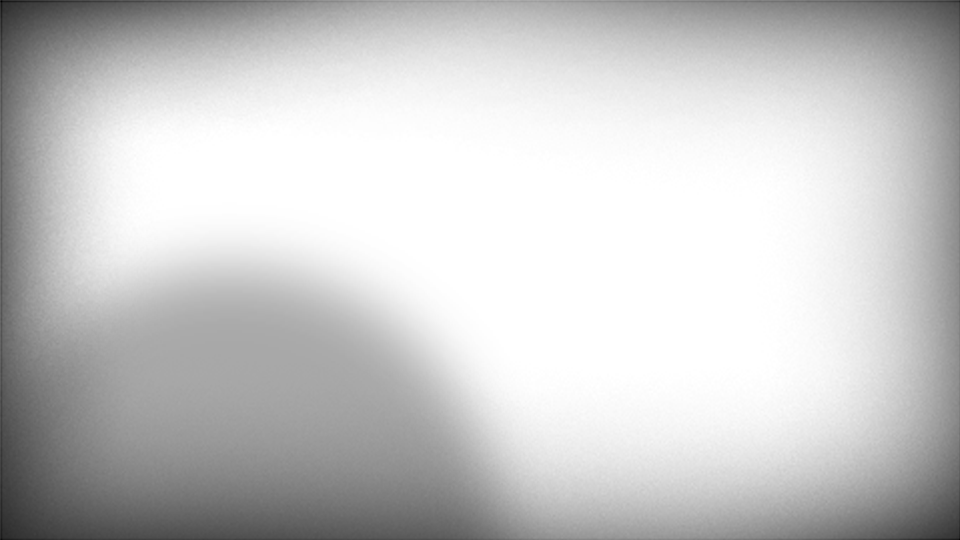
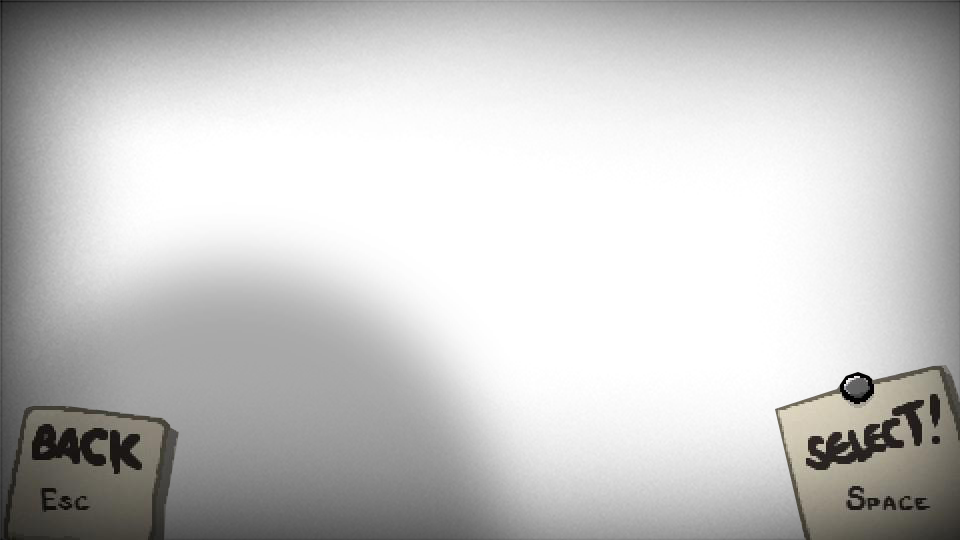
Main menu rework and working resolution changing

Changed region(s): [[0.8125, 0.6815, 1.0, 1.0], [0.0, 0.7407, 0.1875, 1.0]]

diff --git a/src/game.py b/src/game.py
@@ -14,7 +14,8 @@ class Game:
         #self.screen = pygame.display.set_mode((0, 0))
         #window_size = (pygame.display.Info().current_w, pygame.display.Info().current_h)
 
-        window_size = (1920, 1080)
+        #window_size = (1920, 1080)
+        window_size = (1280, 720)
         self.screen = pygame.display.set_mode((window_size[0], window_size[1]))
         
 
@@ -30,18 +31,20 @@ class Game:
 
         self.image_loader = ImageLoader()
           
-        self.intro_background = pygame.image.load("resources/menu/introbackground.png")
-        self.intro_background = pygame.transform.smoothscale(self.intro_background, self.screen.get_size())
-        self.menu_background = pygame.image.load("resources/menu/menuoverlay.png")
-        self.menu_background = pygame.transform.smoothscale(self.menu_background, self.screen.get_size())
-        self.pause_card = pygame.image.load("resources/menu/pausecard2.png")
-        self.pause_card = pygame.transform.smoothscale(self.pause_card, (self.pause_card.get_height() * self.settings.SCALE, self.pause_card.get_width() * self.settings.SCALE))
-        self.arrow = pygame.image.load("resources/menu/arrow2.png")
-        self.arrow = pygame.transform.smoothscale(self.arrow, (self.arrow.get_width() * self.settings.SCALE, self.arrow.get_height()* self.settings.SCALE))
-        self.main_title = pygame.image.load("resources/menu/maintitle.png")
-        title_width = self.settings.WIN_WIDTH // 2
-        title_height = self.main_title.get_height() * (title_width // self.main_title.get_width())
-        self.main_title = pygame.transform.scale(self.main_title, (title_width, title_height))
+        self.const_intro_background = pygame.image.load("resources/menu/introbackground.png")
+        self.intro_background = pygame.transform.smoothscale(self.const_intro_background, self.screen.get_size())
+        self.const_menu_card = pygame.image.load("resources/menu/menucard.png")
+        self.menu_card = pygame.transform.smoothscale(self.const_menu_card, self.screen.get_size())
+        self.const_settings_card = pygame.image.load("resources/menu/settingscard.png")
+        self.settings_card = pygame.transform.smoothscale(self.const_settings_card, self.screen.get_size())
+        self.const_menu_background = pygame.image.load("resources/menu/menuoverlay.png")
+        self.menu_background = pygame.transform.smoothscale(self.const_menu_background, self.screen.get_size())
+        self.const_pause_card = pygame.image.load("resources/menu/pausecard2.png")
+        self.pause_card = pygame.transform.smoothscale(self.const_pause_card, (self.const_pause_card.get_height() * self.settings.SCALE, self.const_pause_card.get_width() * self.settings.SCALE))
+        self.const_arrow = pygame.image.load("resources/menu/arrow2.png")
+        self.arrow = pygame.transform.smoothscale(self.const_arrow, (self.const_arrow.get_width() * 0.7 * self.settings.SCALE, self.const_arrow.get_height() * 0.7 * self.settings.SCALE))
+        self.const_main_title = pygame.image.load("resources/menu/maintitle.png")
+        self.main_title = pygame.transform.scale(self.const_main_title, (self.const_main_title.get_width() * 2.8 * self.settings.SCALE, self.const_main_title.get_height() * 2.8 * self.settings.SCALE))
         self.font = pygame.font.SysFont("arialblack", 30)
         
         self.player_sprite = pygame.sprite.LayeredUpdates()
@@ -59,7 +62,19 @@ class Game:
 
         self.map = None
         self.player = None
-        
+
+
+    def handle_resolution_change(self, window_size):
+        self.screen = pygame.display.set_mode((window_size[0], window_size[1]))
+        self.settings = Settings(window_size)
+
+        self.intro_background = pygame.transform.smoothscale(self.const_intro_background, self.screen.get_size())
+        self.menu_card = pygame.transform.smoothscale(self.const_menu_card, self.screen.get_size())
+        self.settings_card = pygame.transform.smoothscale(self.const_settings_card, self.screen.get_size())
+        self.menu_background = pygame.transform.smoothscale(self.const_menu_background, self.screen.get_size())
+        self.pause_card = pygame.transform.smoothscale(self.const_pause_card, (self.const_pause_card.get_height() * self.settings.SCALE, self.const_pause_card.get_width() * self.settings.SCALE))
+        self.arrow = pygame.transform.smoothscale(self.const_arrow, (self.const_arrow.get_width() * 0.7 * self.settings.SCALE, self.const_arrow.get_height() * 0.7 * self.settings.SCALE))
+        self.main_title = pygame.transform.scale(self.const_main_title, (self.const_main_title.get_width() * 2.8 * self.settings.SCALE, self.const_main_title.get_height() * 2.8 * self.settings.SCALE))
 
     def run(self):
         self.intro_screen()
@@ -194,9 +209,10 @@ class Game:
             pygame.display.update()
 
     def main_menu(self):
-        play_button = Button(self.settings.WIN_WIDTH/2 - 100, (self.settings.WIN_HEIGHT/2)*0.8, 200, 50, "Play", WHITE, self.font, 40)
-        settings_button = Button(self.settings.WIN_WIDTH/2 - 100, self.settings.WIN_HEIGHT/2, 200, 50, "Settings", WHITE, self.font, 40)
-        quit_button = Button(self.settings.WIN_WIDTH/2 - 100, (self.settings.WIN_HEIGHT/2)*1.2, 200, 50, "Quit", WHITE, self.font, 40)
+        arrow_positions = [(self.settings.WIN_WIDTH//2.5, self.settings.WIN_HEIGHT//3.15), 
+                           (self.settings.WIN_WIDTH//2.44, self.settings.WIN_HEIGHT//2.2), 
+                           (self.settings.WIN_WIDTH//2.43, self.settings.WIN_HEIGHT//1.67)]
+        current_arrow = 0
 
         while self.menu_playing:
             for event in pygame.event.get():
@@ -204,39 +220,48 @@ class Game:
                     self.menu_playing = False
                     self.running = False
 
-                if event.type == pygame.MOUSEBUTTONDOWN:
-                    if play_button.is_pressed(pygame.mouse.get_pos()):
-                        self.menu_playing = False
-                        self.render_new_map()
-                        self.paused = False
+                if event.type == pygame.KEYDOWN:
+                    if event.key == pygame.K_DOWN:
+                        current_arrow = current_arrow + 1 if current_arrow < 2 else 0
 
-                    if quit_button.is_pressed(pygame.mouse.get_pos()):
-                        self.menu_playing = False
-                        self.running = False
+                    if event.key == pygame.K_UP:
+                        current_arrow = current_arrow - 1 if current_arrow > 0 else 2
 
-                    if settings_button.is_pressed(pygame.mouse.get_pos()):
-                        self.menu_playing = False
-                        self.settings_playing = True
-                        self.display_settings()
-                
+                    if event.key == pygame.K_RETURN:
+                        if current_arrow == 0:
+                            self.menu_playing = False
+                            self.render_new_map()
+                            self.paused = False
 
-            self.screen.fill(DARK_GREY)
+                        elif current_arrow == 1:
+                            self.menu_playing = False
+                            self.settings_playing = True
+                            self.display_settings()
+                            arrow_positions = [(self.settings.WIN_WIDTH//2.5, self.settings.WIN_HEIGHT//3.15), 
+                                            (self.settings.WIN_WIDTH//2.44, self.settings.WIN_HEIGHT//2.2), 
+                                            (self.settings.WIN_WIDTH//2.43, self.settings.WIN_HEIGHT//1.67)]
+
+                        elif current_arrow == 2:
+                            self.menu_playing = False
+                            self.running = False
+
+            self.screen.blit(self.menu_card, (0, 0))
             self.screen.blit(self.menu_background, (0, 0))
-            
-            title_rect = self.main_title.get_rect(center=(self.settings.WIN_WIDTH/2, self.settings.WIN_HEIGHT/4))
-            self.screen.blit(self.main_title, title_rect)
-            
-            self.screen.blit(play_button.image, play_button.rect)
-            self.screen.blit(settings_button.image, settings_button.rect)
-            self.screen.blit(quit_button.image, quit_button.rect)
+            self.screen.blit(self.main_title, (self.settings.WIN_WIDTH//8, 0))
+
+            self.screen.blit(self.arrow, (arrow_positions[current_arrow][0], arrow_positions[current_arrow][1]))
 
             self.clock.tick(FPS)
             pygame.display.update()
 
 
     def display_settings(self):
-        back_button = Button(self.settings.WIN_WIDTH/2 - 100, self.settings.WIN_HEIGHT/2 + 100, 200, 50, "Back", WHITE, self.font, 40)
         settings_playing = True
+
+        arrow_positions = [(self.settings.WIN_WIDTH//2.55, self.settings.WIN_HEIGHT//3.1), 
+                    (self.settings.WIN_WIDTH//2.5, self.settings.WIN_HEIGHT//2.35), 
+                    (self.settings.WIN_WIDTH//2.48, self.settings.WIN_HEIGHT//1.91)]
+        current_arrow = 0
 
         while settings_playing:
             for event in pygame.event.get():
@@ -244,23 +269,48 @@ class Game:
                     settings_playing = False
                     self.running = False
 
-                if event.type == pygame.MOUSEBUTTONDOWN:
-                    if back_button.is_pressed(pygame.mouse.get_pos()):
+                if event.type == pygame.KEYDOWN:
+                    if event.key == pygame.K_DOWN:
+                        current_arrow = current_arrow + 1 if current_arrow < 2 else 0
+
+                    if event.key == pygame.K_UP:
+                        current_arrow = current_arrow - 1 if current_arrow > 0 else 2
+
+                    if event.key == pygame.K_RETURN:
+                        if current_arrow == 0:
+                            self.handle_resolution_change((1920, 1080))
+                            arrow_positions = [(self.settings.WIN_WIDTH//2.55, self.settings.WIN_HEIGHT//3.1), 
+                                            (self.settings.WIN_WIDTH//2.5, self.settings.WIN_HEIGHT//2.35), 
+                                            (self.settings.WIN_WIDTH//2.48, self.settings.WIN_HEIGHT//1.91)]
+                        elif current_arrow == 1:
+                            self.handle_resolution_change((1600, 900))
+                            arrow_positions = [(self.settings.WIN_WIDTH//2.55, self.settings.WIN_HEIGHT//3.1), 
+                                            (self.settings.WIN_WIDTH//2.5, self.settings.WIN_HEIGHT//2.35), 
+                                            (self.settings.WIN_WIDTH//2.48, self.settings.WIN_HEIGHT//1.91)]
+                        elif current_arrow == 2:
+                            self.handle_resolution_change((1280, 720))
+                            arrow_positions = [(self.settings.WIN_WIDTH//2.55, self.settings.WIN_HEIGHT//3.1), 
+                                            (self.settings.WIN_WIDTH//2.5, self.settings.WIN_HEIGHT//2.35), 
+                                            (self.settings.WIN_WIDTH//2.48, self.settings.WIN_HEIGHT//1.91)]
+
+                    if event.key == pygame.K_ESCAPE:
                         settings_playing = False
                         self.menu_playing = True
-                    
 
-            self.screen.fill(DARK_GREY)
+
+            self.screen.blit(self.settings_card, (0, 0))
             self.screen.blit(self.menu_background, (0, 0))
+            self.screen.blit(self.main_title, (self.settings.WIN_WIDTH//8, 0))
 
-            self.screen.blit(back_button.image, back_button.rect)
+            self.screen.blit(self.arrow, (arrow_positions[current_arrow][0], arrow_positions[current_arrow][1]))
 
             self.clock.tick(FPS)
             pygame.display.update()
 
 
     def display_pause(self):
-        arrow_positions = [(self.settings.WIN_WIDTH//3, self.settings.WIN_HEIGHT//1.58), (self.settings.WIN_WIDTH//2.8, self.settings.WIN_HEIGHT//1.4)]
+        arrow_positions = [(self.settings.WIN_WIDTH//2.82, self.settings.WIN_HEIGHT//1.55),
+                           (self.settings.WIN_WIDTH//2.62, self.settings.WIN_HEIGHT//1.38)]
         current_arrow = 0
 
         while self.paused:

diff --git a/src/utils/settings.py b/src/utils/settings.py
@@ -11,4 +11,4 @@ class Settings():
         self.MAP_HEIGHT = self.WIN_HEIGHT // self.TILE_SIZE
         self.DIFFICULTY = None
 
-        self.SCALE = 1920 // self.WIN_WIDTH
+        self.SCALE = self.WIN_WIDTH / 1920
